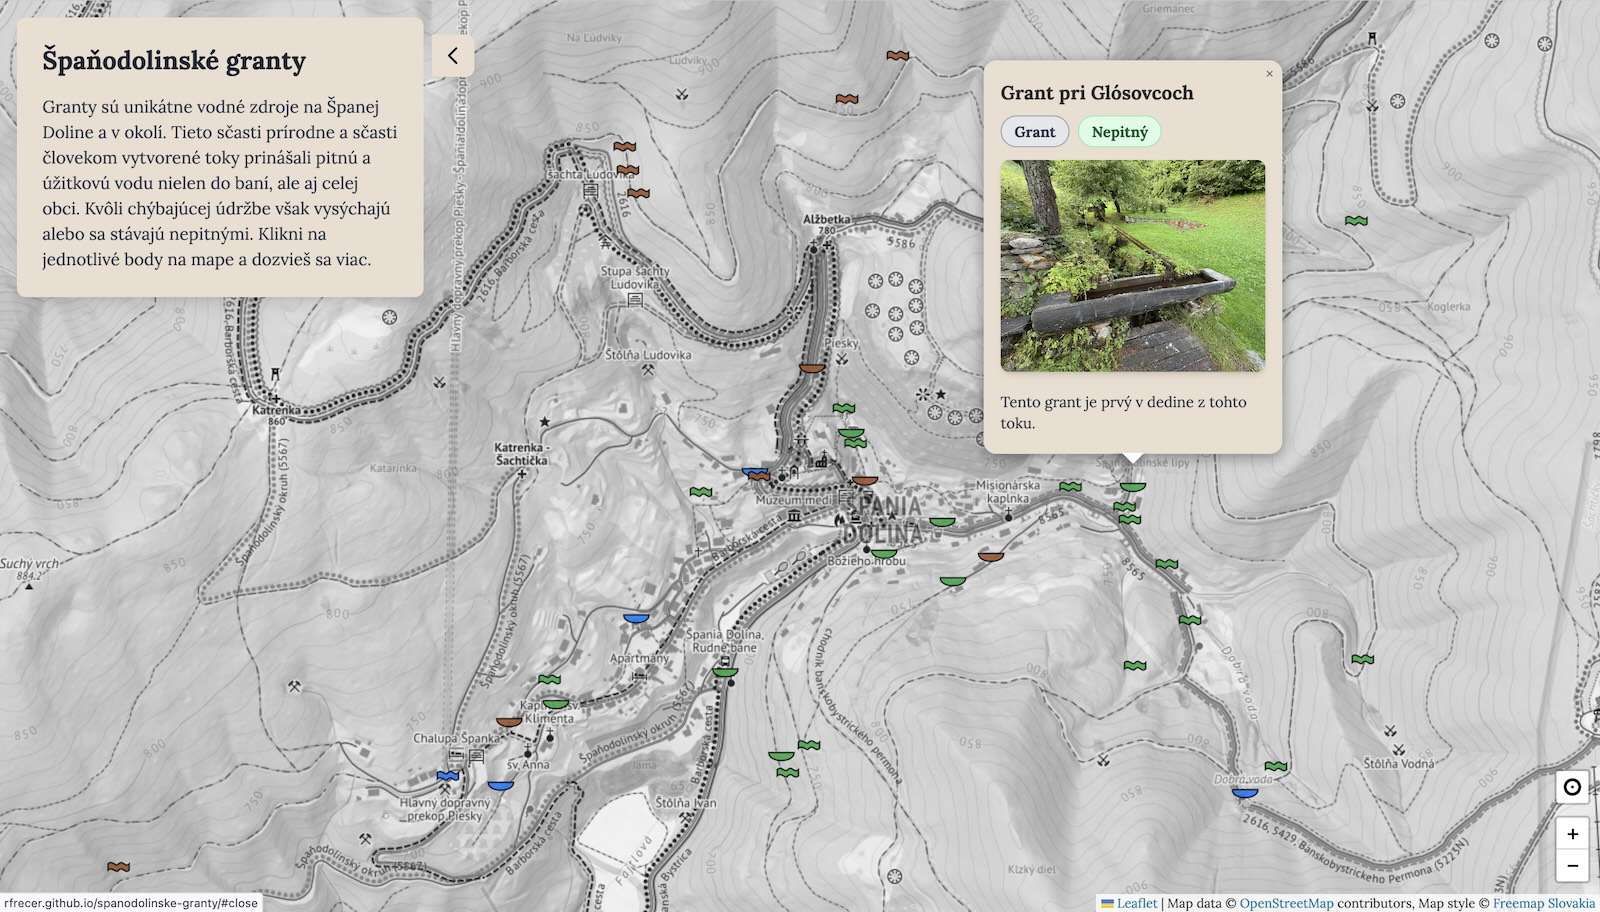
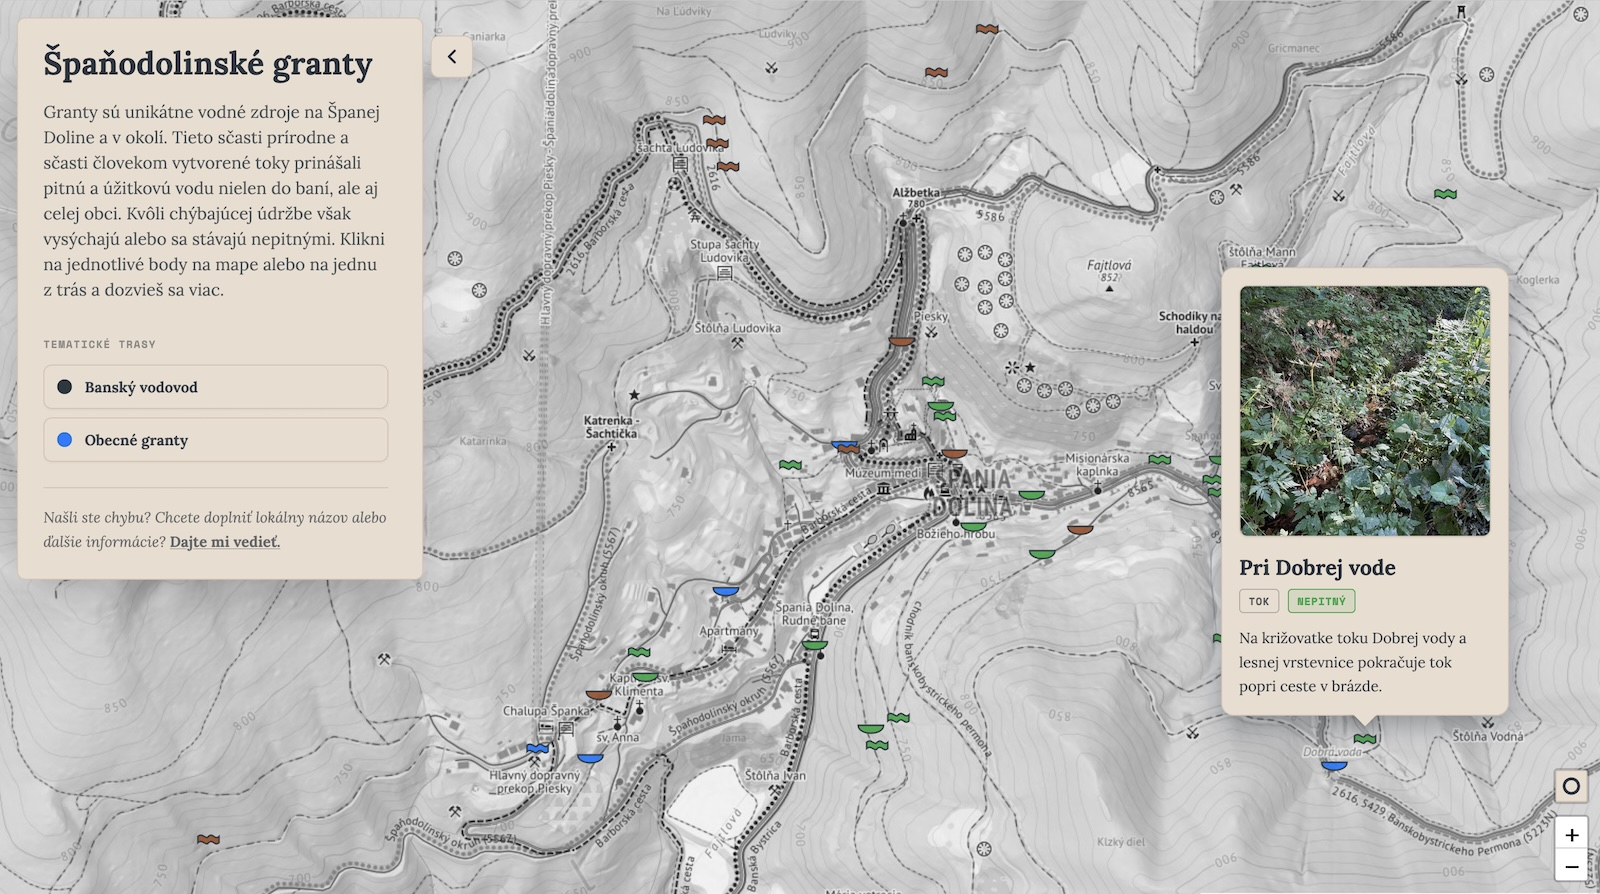
Copy edits
- better archaeo paragraph
- better project descriptions
- zambia asset change
- new version: spanodolinske granty

diff --git a/data.js b/data.js
@@ -177,7 +177,7 @@ const cvData = {
             date: "2026",
             thumbnail: "assets/gisat-1.jpg",
             image: "assets/gisat-2.jpg",
-            description: "Designed and developed the company website from the ground up for a remote sensing firm based in Prague. Built outside of traditional frameworks utilizing Vanilla JS, HTML/CSS, and AI-assisted coding workflows, resulting in a highly modular, data-driven, and resource-efficient architecture.",
+            description: "Designed and developed a corporate website for a remote sensing firm based in Prague. Built outside of traditional frameworks utilizing Vanilla JS, HTML/CSS, and AI-assisted coding workflows, resulting in a highly modular, data-driven, and resource-efficient architecture.",
             tags: [
                 "ai_dev", "html_css", "git"
             ]
@@ -188,7 +188,7 @@ const cvData = {
             date: "2026",
             thumbnail: "assets/terez-frecerova-1.jpg",
             image: "assets/terez-frecerova-2.jpg",
-            description: "Designed, developed, and hosted an artist portfolio website for singer, songwriter, and author Terez Frecerová. Built using modern frontend tooling (Vite, Tailwind CSS, React) combined with AI-assisted development protocols to accelerate delivery.",
+            description: "Designed, developed, and hosted an artist portfolio website for singer, songwriter, and author Terez Frecerová. Built with a custom design using modern frontend tooling (Vite, Tailwind CSS, React) combined with AI-assisted development protocols.",
             tags: [
                 "ai_dev", "html_css", "git"
             ]
@@ -199,7 +199,7 @@ const cvData = {
             date: "2023 – 2024",
             thumbnail: "assets/slim-1.jpg",
             image: "assets/slim-2.jpg",
-            description: "Managed the delivery of a suite of geospatial products for the Zambian public sector, funded by CzechAid. Coordinated directly with ministries and agencies on the ground in Zambia to gather user requirements, acting as the primary bridge between stakeholders and two distinct technical teams (Earth Observation data and Web Application development). Rapidly prototyped and deployed the initial public-facing portal to house the data, ensuring UI/UX consistency across products, while overseeing the long-term development of the final platform.",
+            description: "Managed the delivery of a suite of geospatial products for the Zambian public sector, funded by CzechAid. Coordinated directly with ministries and agencies on the ground in Zambia to gather user requirements, acting as the primary bridge between stakeholders and two technical teams (Earth Observation data and Web Application development). Prototyped and deployed the initial public-facing landing page to house demo products, ensuring UI/UX consistency, while overseeing the long-term development of the final platform.",
             tags: [
                 "web_mapping", "ui_des"
             ]
@@ -210,7 +210,7 @@ const cvData = {
             date: "2025",
             thumbnail: "assets/granty-2.jpg",
             image: "assets/granty-1.jpg",
-            description: "An end-to-end solo project mapping traditional waterwells in the historical mining village of Špania Dolina, Slovakia. Managed the complete project lifecycle, including field photography, copywriting, and the development of an interactive web portal (built via AI-assisted workflows) to highlight the climate-driven degradation of this medieval water network.",
+            description: "An end-to-end solo project mapping traditional waterwells in the historical mining village of Špania Dolina, Slovakia. Managed the complete project lifecycle, including field photography, copywriting, and the development of an interactive web portal built via AI-assisted workflows to highlight the climate-driven degradation of this medieval water network.",
             tags: [
                 "ai_dev", "web_mapping", "copywriting"
             ]
@@ -221,7 +221,7 @@ const cvData = {
             date: "2009 – 2015",
             thumbnail: "assets/archaeology-1.jpg",
             image: "assets/archaeology-2.jpg",
-            description: "Contributed to archaeological fieldwork across Slovakia, Italy, and Bulgaria between 2009 and 2015. Key projects included uncovering Roman-style buildings and a Celtic coin hoard at Bratislava Castle, surveying the ancient city walls of Eryx in Sicily, and excavating a Roman settlement near Stroyno in Thrace. This field experience culminated in my doctoral dissertation, a comprehensive study of Roman lamps from the cemeteries of Gerulata. I processed the site's previously unpublished artifact corpus through rigorous photo documentation, scale measurements, and stylistic matching against other collections. This material analysis led to a new model of subsidiary lamp production, successfully explaining the making of provincial lamp copies and resolving a long-standing misattribution in the field.",
+            description: "Contributed to archaeological fieldwork across Slovakia, Italy, and Bulgaria between 2009 and 2015. Key projects included uncovering Roman-style buildings and a Celtic coin hoard at Bratislava Castle, surveying the ancient city walls of Eryx in Sicily, and excavating a Roman settlement near Stroyno in Thrace.<br><br>My doctoral dissertation was a comprehensive study of Roman lamps from the cemeteries of Gerulata. I processed the site's previously unpublished artifact corpus through rigorous photo documentation, material analysis, and stylistic matching against other collections. My work led to a new model of subsidiary lamp production, successfully explaining the making of provincial lamp copies and resolving a long-standing misunderstanding in the field.",
             tags: [
                 "rom_arch", "anc_econ", "proj_man"
             ]

diff --git a/index.html b/index.html
@@ -207,10 +207,18 @@
         .split-section { display: grid; grid-template-columns: 1fr 1fr; gap: 2rem; }
 
         /* Affiliations Grid */
-        .standard-text-list { list-style-type: none; font-size: 0.95rem; color: var(--text-muted); }
-        .standard-text-list li { margin-bottom: 1rem; display: flex; gap: 1rem; align-items: flex-start; }
+        .affiliations-list { display: flex; flex-direction: column; gap: 1rem; list-style-type: none; font-size: 0.95rem; color: var(--text-muted); }
+        .affiliations-list li { display: flex; gap: 1rem; align-items: center; }
         .aff-emoji { flex-shrink: 0; font-size: 1.1rem; }
         .aff-text { flex: 1; }
+
+        /* Languages Grid */
+        .language-list { display: flex; flex-direction: column; gap: 1rem; font-size: 0.95rem; color: var(--text-muted); }
+        .language-item { display: flex; align-items: center; gap: 1rem; }
+        .language-name { width: 70px; color: var(--text-muted); font-weight: 600; } 
+        
+        /* Publications Grid */
+        .publications-list { display: flex; flex-direction: column; gap: 1rem; list-style-type: none; font-size: 0.95rem; color: var(--text-muted); }
 
         /* Skill Tags */
         .tags-container { display: flex; flex-direction: column; gap: 0.5rem; }
@@ -224,11 +232,6 @@
         .tag.yellow { background-color: var(--tag-yellow-bg); color: var(--tag-yellow-txt); }
         .tag.orange { background-color: var(--tag-orange-bg); color: var(--tag-orange-txt); }
         .tag.default { background-color: var(--tag-default-bg); color: var(--tag-default-txt); border: 1px solid #e0e0e0; padding: 0.2rem 0.5rem; }
-
-        /* Languages Grid */
-        .language-list { font-size: 0.95rem; display: flex; flex-direction: column; gap: 0.75rem; color: var(--text-muted); }
-        .language-item { display: flex; align-items: center; gap: 1rem; }
-        .language-name { width: 70px; color: var(--text-muted); font-weight: 600; } 
 
         /* Mobile Footer (Hidden on Desktop) */
         .mobile-footer { display: none; }
@@ -296,7 +299,8 @@
             }
             .project-details summary::after { display: none; }
 
-            .split-section { grid-template-columns: 1fr; gap: 3rem; }
+            /* Reduced gap for Mobile Affiliations & Languages */
+            .split-section { grid-template-columns: 1fr; gap: 2rem; }
 
             /* Sticky Mobile Footer Styling: Glassmorphism */
             .mobile-footer {
@@ -374,7 +378,7 @@
             <h2>// Affiliations & Languages</h2>
             <div class="split-section">
                 <div class="split-col">
-                    <ul id="affiliations-container" class="standard-text-list"></ul>
+                    <ul id="affiliations-container" class="affiliations-list"></ul>
                 </div>
                 <div class="split-col">
                     <div id="languages-container" class="language-list"></div>
@@ -384,7 +388,7 @@
 
         <section id="publications">
             <h2>// Publications</h2>
-            <ul id="publications-container" class="standard-text-list" style="display: block;"></ul>
+            <ul id="publications-container" class="publications-list"></ul>
         </section>
 
     </main>
